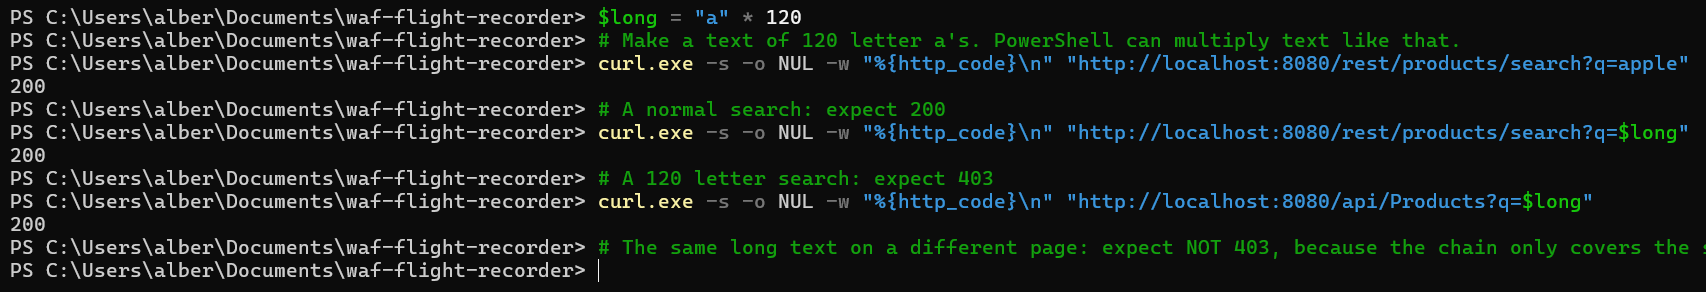
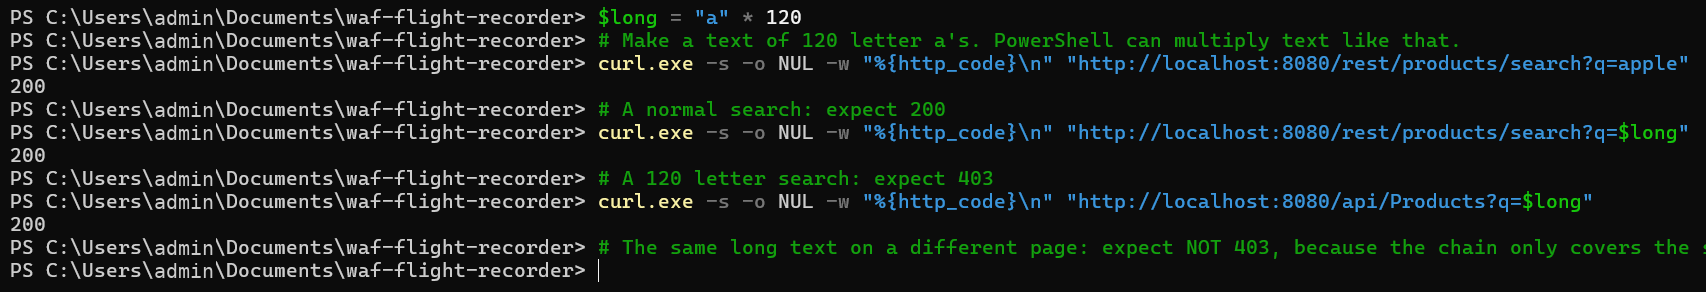
Remove personal details from the README and screenshots
Name, home country and the Windows username in terminal prompts are gone.

Claude-Session: https://claude.ai/code/session_01C2GWaAnJHDEBxJ3y5p6Xgo

diff --git a/README.md b/README.md
@@ -34,9 +34,9 @@ It's a learning lab. It doesn't protect anything real, and every attack goes to 
 
 ## About me
 
-I'm Alberto (Albeen on GitHub). I'm 19, I live in Madrid, and I'm in my second year of ASIR (network systems administration).
+I go by Albeen here on GitHub. I'm 19, I live in Madrid, and I'm in my second year of ASIR (network systems administration).
 
-I came to Spain from Iran at 13 without proper Spanish or English. Bachillerato closed for me, so I took the FP route instead. SMR, an Erasmus placement in Malta, then ASIR. That "plan B" turned out to be the road that opened my career.
+I came to Spain from my home country at 13 without proper Spanish or English. Bachillerato closed for me, so I took the FP route instead. SMR, an Erasmus placement abroad, then ASIR. That "plan B" turned out to be the road that opened my career.
 
 In May 2026 I did Deloitte's Technology Trainee program on the CyberSOC track. Over the summer I worked as an on site support engineer, installing Cisco and Meraki kit and supporting users across Madrid and Sevilla. In my own time I build SIEM labs with Elastic and Kibana: failed logon dashboards, Windows Event Log investigations, the basics of incident response.
 
